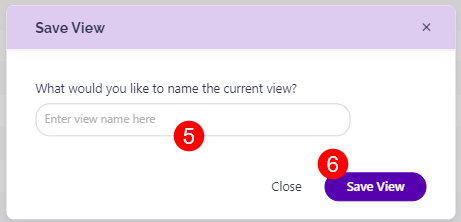
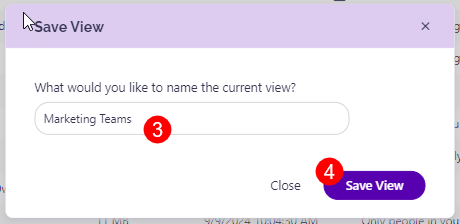
update

diff --git a/configuration/custom-views.md b/configuration/custom-views.md
@@ -1,5 +1,5 @@
 ---
-description: This article explains how to save and export custom views for reports in Syskit Point.
+description: This article explains how to save and export reports with custom views applied in Syskit Point.
 ---
 
 # Custom Views
@@ -30,40 +30,57 @@ Custom Views can be saved on all overview screens and grid reports, which are th
 
 ## Save Custom Views
 
-This example uses the Sites Overview report to explain how to save custom views. However, the same actions can be performed on any of the above-listed reports.
+This example uses the Sites Overview report to explain how to save custom views. However, the same actions can be performed on the above-listed reports.
 
 First, you need to customize your report based on your preferences. 
 
 This means that you should:
 
 * **Select the columns (1)** you want visible from the column chooser
-* **Organize the columns (2)** in the order you want to view them by hovering your mouse between two columns
-* **Click the Save Custom Views (3)** button on the top right side of the report
-  * **The confirmation dialog** appears where you can **name the custom view (5)** you created and **click Save View (6)** to finalize
-  * Now, you can schedule the report or export it as the new custom view you created
-  * The next time you generate this report, it opens as the custom view you created
-* To reset the custom view you created for a report, **click the Reset Layout (4)** button 
+* **Modify visible columns**, their order, sorting, and other filters based on your preference
+  * [Click here to see the table of report customization saved in custom views](#custom-views-options)
+* **Click the Save Custom Views (2)** button on the top right side of the report
+  * **The confirmation dialog** appears where you can **name the custom view (3)** you created and **click Save View (4)** to finalize
+  * Now, you can schedule or export the report with the custom view(s) you created
+  * the next time you generate the report, you can select the custom view(s) you created
+* Once your custom views are created, you can **select them from the View filter (5)** in the top left of the report
+  * You can find your views there every time you access the report they were created for
+  * The top views you see in the filter are the default views for the report, and below the separator line, you can find your custom views 
+
 
 ![Save Custom Views](../.gitbook/assets/custom-views-save.png)
 
 ![Save Custom Views - Confirmation](../.gitbook/assets/custom-views-save-confirm.png)
 
+![Save Custom Views - Filter](../.gitbook/assets/custom-views-save-filter.png)
+
+
+When you are ready, you can choose to schedule your report or export it as:
+* A **PDF (1)** file
+* An **Excel (2)** file
+
+This exports the report filtered by the custom view you selected.
+
+Clicking the **arrow symbol (3)** next to either of the two options provides the ability to **Export All (4)**. 
+* The Export All button exports all the information that is included in the report view by default
+
+![Save Custom Views - Filter](../.gitbook/assets/custom-views-save-export.png)
+
 
 ## Custom Views Options
 
-The table below shows what custom views are saved and how this impacts the export of reports. 
+The table below shows report customizations saved when creating custom views and how this impacts report export.
 
-| View Feature | UI | Direct Export - XLSX | Scheduled Export - XLSX |  Direct Export - PDF |  Scheduled Export - PDF |
+| View Feature | Point UI | Direct Export - XLSX | Scheduled Export - XLSX |  Direct Export - PDF |  Scheduled Export - PDF |
 | --- | --- | --- | --- | --- | --- |
-| Column visibility | Yes | Yes | Yes | Yes | Yes |
-| Column order | Yes | Yes | Yes | Yes | Yes | 
+| Column visibility | Yes | No | No | No | No |
+| Column order | Yes | No | No | No | No | 
 | Column sort | Yes | Yes | Yes | Yes | Yes | 
 | Column search cell (searchbox in column) | Yes | Yes | Yes | Yes | Yes |
-| Global Search (searchbox top right in grid) | No | No | No | No | No |
-| Column group | Yes | Adjusted | Adjusted | Adjusted | Adjusted | 
+| Global Search (searchbox top right in grid) | Yes | Yes | Yes | Yes | Yes |
+| Column group | Yes | No | No | No | No | 
 | Filter tiles | Yes | Yes | Yes | Yes | Yes | 
 | Date period, any other filter operations | Yes | Yes | Yes | Yes | Yes | 
-
 
 
 
